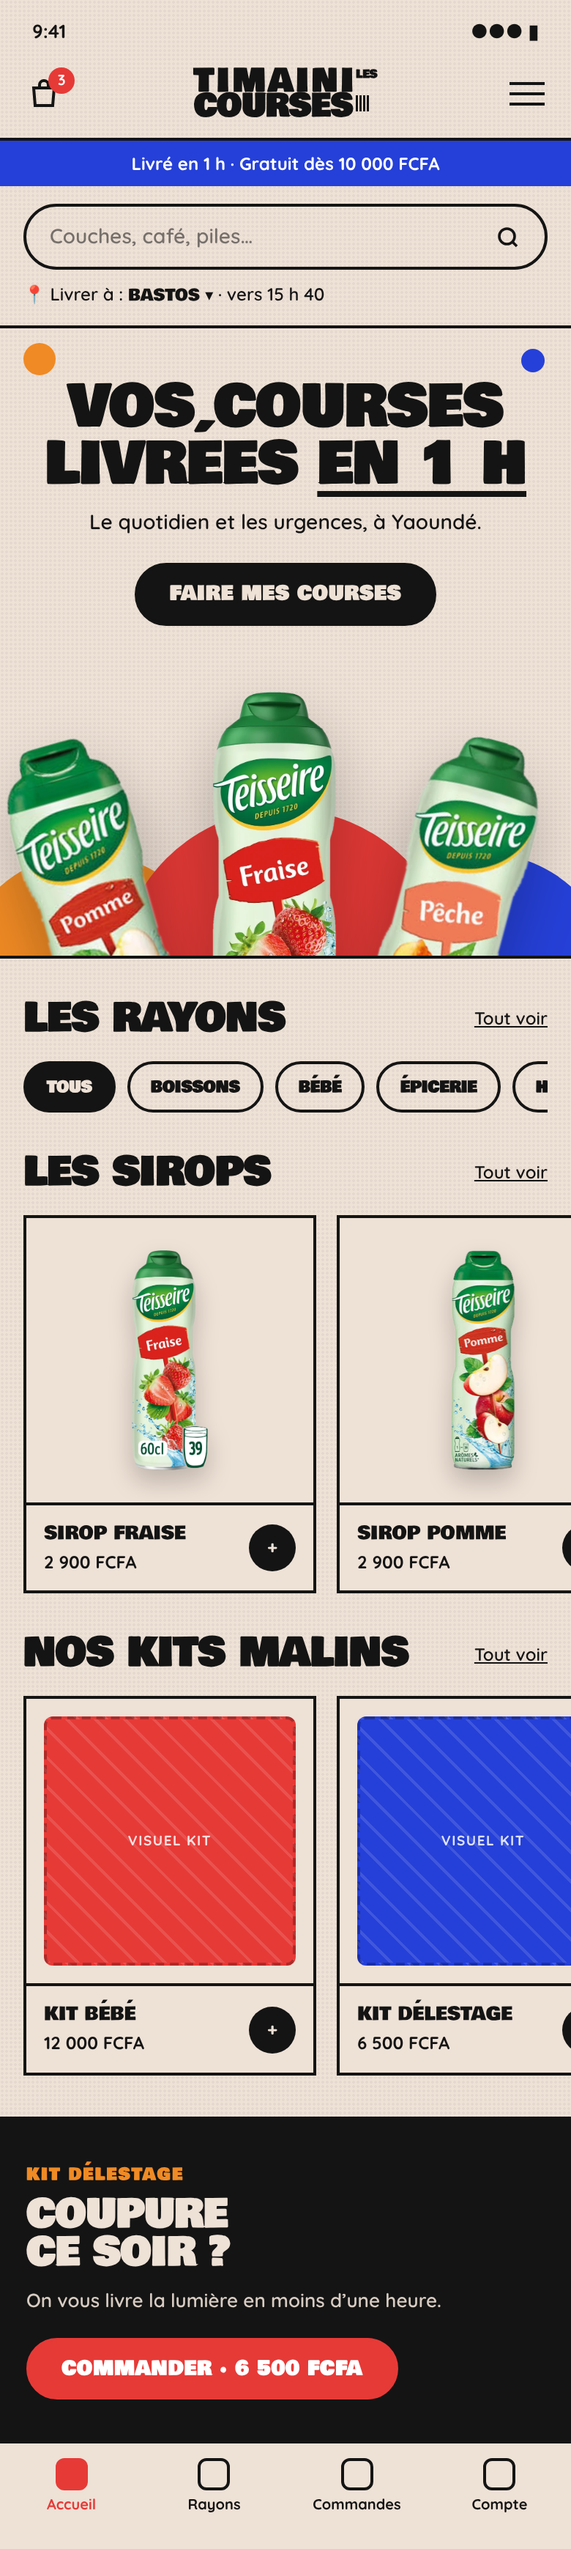
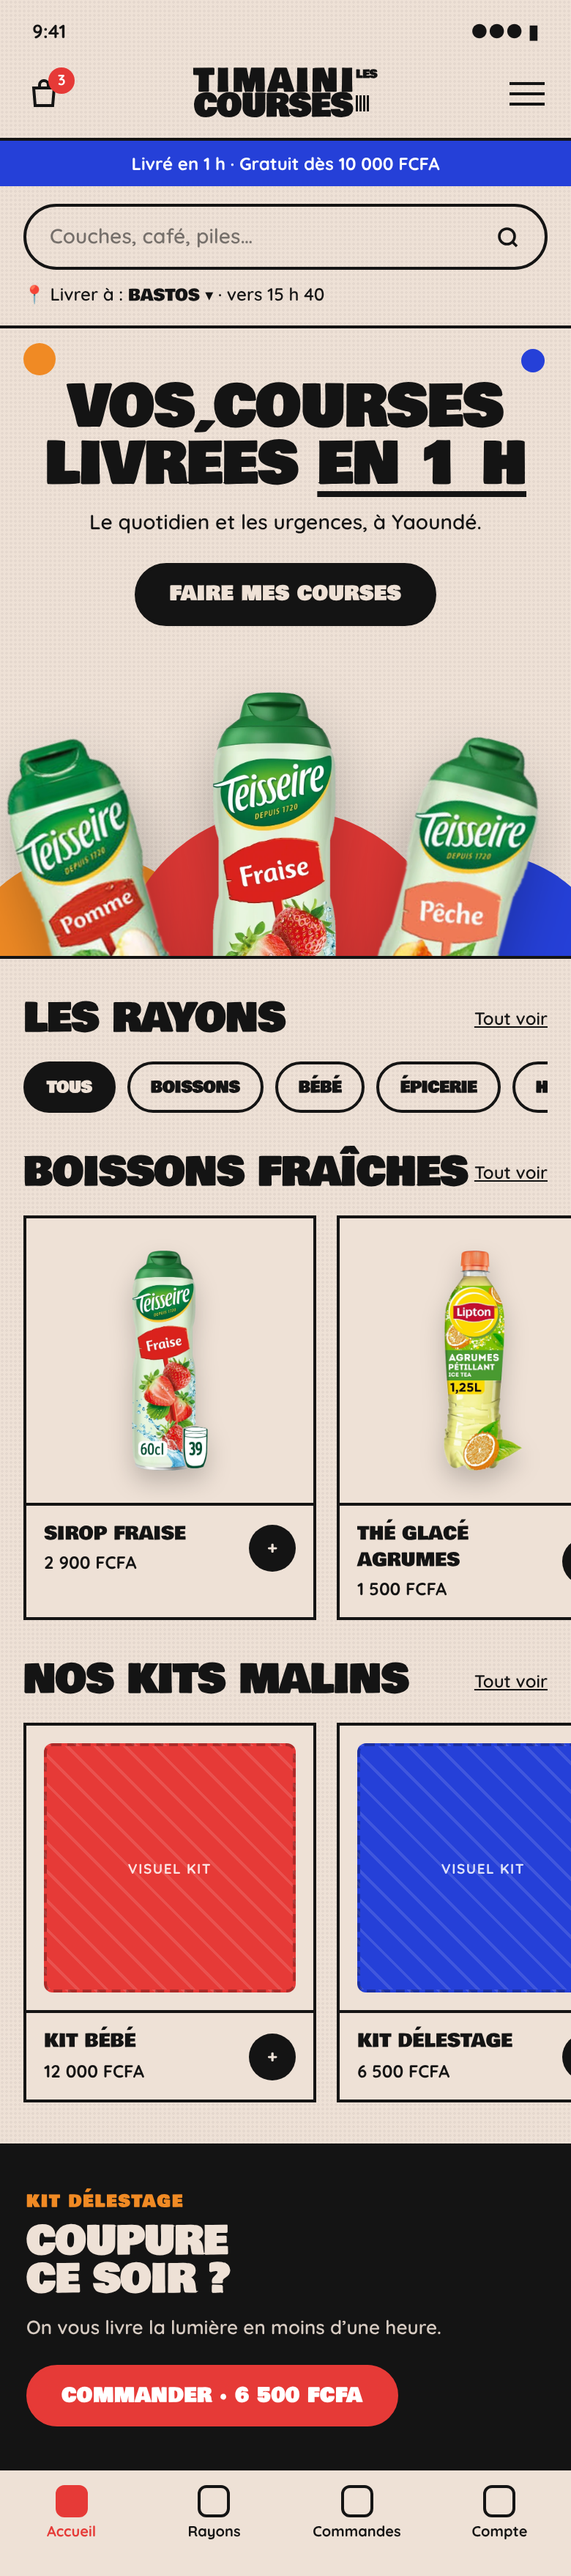
Add batch background-removal tool, product catalogue CSV and iced tea products
Claude-Session: https://claude.ai/code/session_01XR5UA9nGqMd7JjqJ6NqGqM

Changed region(s): [[0.0, 0.0311, 1.0, 0.9316], [0.9846, 0.59, 1.0, 0.621]]

diff --git a/livrables/src/maquette-desktop.html b/livrables/src/maquette-desktop.html
@@ -199,6 +199,19 @@ footer p{font-size:14px;margin-top:14px;max-width:280px}
   </div>
 </div></section>
 
+<!-- THÉS GLACÉS -->
+<section class="crew"><div class="wrap">
+  <div class="sec-head"><div><h2 class="h2">Les thés glacés</h2><p>Bien frais, livrés avant qu’ils ne tiédissent.</p></div><span class="pill">Toutes les boissons</span></div>
+  <div class="cgrid">
+    <div class="card"><div class="pimg"><span class="tag">Nouveau</span><img src="images/the-glace-agrumes.webp" alt="Thé glacé agrumes pétillant"></div>
+      <div class="meta"><div><b>Agrumes pétillant</b><small>Lipton · 1,25 L</small><span>1&nbsp;500 FCFA</span></div><span class="plus">+</span></div></div>
+    <div class="card"><div class="pimg"><img src="images/the-glace-peche.webp" alt="Thé glacé pêche"></div>
+      <div class="meta"><div><b>Pêche</b><small>Lipton · canette</small><span>600 FCFA</span></div><span class="plus">+</span></div></div>
+    <div class="card"><div class="pimg"><img src="images/the-glace-tropical.webp" alt="Thé glacé tropical"></div>
+      <div class="meta"><div><b>Tropical</b><small>Lipton · bouteille</small><span>1&nbsp;300 FCFA</span></div><span class="plus">+</span></div></div>
+  </div>
+</div></section>
+
 <!-- KITS -->
 <section class="kits"><div class="wrap">
   <div class="sec-head"><div><h2 class="h2">Nos kits malins</h2><p>Un clic, et tout ce qu’il faut arrive en une seule course.</p></div><span class="pill">Tous les kits</span></div>

diff --git a/livrables/src/maquette-mobile.html b/livrables/src/maquette-mobile.html
@@ -151,10 +151,10 @@ body{display:flex;gap:40px;align-items:flex-start;padding:0;background:#ddd}
     <div class="chips"><span class="chip on">Tous</span><span class="chip">Boissons</span><span class="chip">Bébé</span><span class="chip">Épicerie</span><span class="chip">Hygiène</span></div>
   </div>
   <div class="msec" style="padding-top:0">
-    <div class="msec-head"><h2 class="h2">Les sirops</h2><span class="link">Tout voir</span></div>
+    <div class="msec-head"><h2 class="h2">Boissons fraîches</h2><span class="link">Tout voir</span></div>
     <div class="hscroll">
       <div class="card"><div class="pimg"><img src="images/sirop-fraise.webp" alt="Sirop fraise"></div><div class="meta"><div><b>Sirop fraise</b><span>2&nbsp;900 FCFA</span></div><span class="plus">+</span></div></div>
-      <div class="card"><div class="pimg"><img src="images/sirop-pomme.webp" alt="Sirop pomme"></div><div class="meta"><div><b>Sirop pomme</b><span>2&nbsp;900 FCFA</span></div><span class="plus">+</span></div></div>
+      <div class="card"><div class="pimg"><img src="images/the-glace-agrumes.webp" alt="Thé glacé agrumes"></div><div class="meta"><div><b>Thé glacé agrumes</b><span>1&nbsp;500 FCFA</span></div><span class="plus">+</span></div></div>
     </div>
   </div>
   <div class="msec" style="padding-top:0">

diff --git a/outils/detourer.py b/outils/detourer.py
@@ -1,0 +1,87 @@
+"""Détoure en lot les photos produit sur fond blanc.
+
+Usage :
+    python3 outils/detourer.py                      # dossiers par défaut
+    python3 outils/detourer.py ENTREE SORTIE [TOL]
+
+Par défaut, lit livrables/src/images/originaux/ et écrit des .webp
+transparents dans livrables/src/images/ (même nom de fichier).
+Les images déjà traitées et plus récentes que l'original sont ignorées.
+
+Méthode : on « remplit » le fond blanc à partir des bords de l'image,
+donc les zones blanches à l'intérieur du produit (logos, verres…) sont gardées.
+Ne marche que sur fond blanc uni : une photo sur fond coloré ou en situation
+doit être détourée à la main.
+"""
+import sys
+from collections import deque
+from pathlib import Path
+
+from PIL import Image, ImageFilter
+
+RACINE = Path(__file__).resolve().parent.parent
+ENTREE = Path(sys.argv[1]) if len(sys.argv) > 1 else RACINE / "livrables/src/images/originaux"
+SORTIE = Path(sys.argv[2]) if len(sys.argv) > 2 else RACINE / "livrables/src/images"
+TOL = int(sys.argv[3]) if len(sys.argv) > 3 else 22
+HAUTEUR_MIN = 1200  # px : hauteur minimale de sortie, pour un rendu homogène
+EXTENSIONS = {".jpg", ".jpeg", ".png", ".webp"}
+
+
+def detourer(src: Path, dst: Path) -> tuple[int, int]:
+    im = Image.open(src).convert("RGB")
+    w, h = im.size
+    px = im.load()
+
+    def presque_blanc(p):
+        return min(p) >= 255 - TOL and max(p) - min(p) <= 14
+
+    fond = bytearray(w * h)
+    file = deque([(x, y) for x in range(w) for y in (0, h - 1)] +
+                 [(x, y) for y in range(h) for x in (0, w - 1)])
+    while file:
+        x, y = file.popleft()
+        i = y * w + x
+        if fond[i] or not presque_blanc(px[x, y]):
+            continue
+        fond[i] = 1
+        if x > 0: file.append((x - 1, y))
+        if x < w - 1: file.append((x + 1, y))
+        if y > 0: file.append((x, y - 1))
+        if y < h - 1: file.append((x, y + 1))
+
+    masque = Image.new("L", (w, h))
+    masque.putdata([0 if f else 255 for f in fond])
+    masque = masque.filter(ImageFilter.MinFilter(3)).filter(ImageFilter.GaussianBlur(0.8))
+    rgba = im.convert("RGBA")
+    rgba.putalpha(masque)
+    cadre = masque.point(lambda v: 255 if v > 30 else 0).getbbox()
+    if not cadre:
+        raise ValueError("image entièrement blanche")
+    rgba = rgba.crop(cadre)
+    if rgba.height < HAUTEUR_MIN:
+        rgba = rgba.resize((round(rgba.width * HAUTEUR_MIN / rgba.height), HAUTEUR_MIN), Image.LANCZOS)
+    rgba.save(dst, "WEBP", quality=90)
+    return rgba.size
+
+
+def main():
+    SORTIE.mkdir(parents=True, exist_ok=True)
+    fichiers = sorted(p for p in ENTREE.iterdir() if p.suffix.lower() in EXTENSIONS)
+    if not fichiers:
+        print(f"Aucune image dans {ENTREE}")
+        return
+    for src in fichiers:
+        dst = SORTIE / (src.stem + ".webp")
+        if dst.exists() and dst.stat().st_mtime >= src.stat().st_mtime:
+            print(f"  déjà fait   {src.name}")
+            continue
+        try:
+            taille = detourer(src, dst)
+            petit = "  ⚠ image source petite, risque de flou" if min(Image.open(src).size) < 800 else ""
+            print(f"  détouré     {src.name} -> {dst.name} {taille}{petit}")
+        except Exception as e:  # une image ratée ne bloque pas le lot
+            print(f"  ÉCHEC       {src.name} : {e}")
+
+
+if __name__ == "__main__":
+    main()
